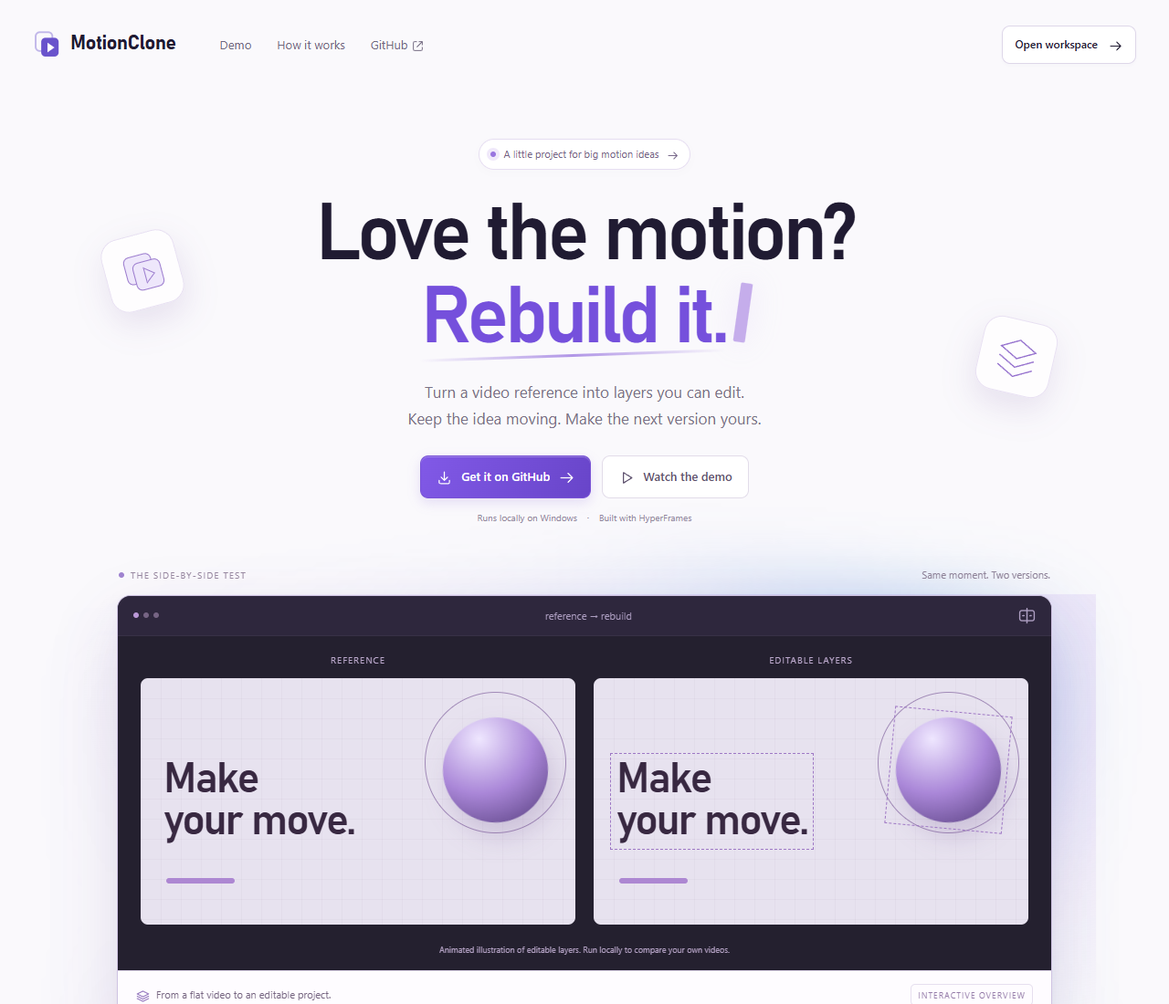
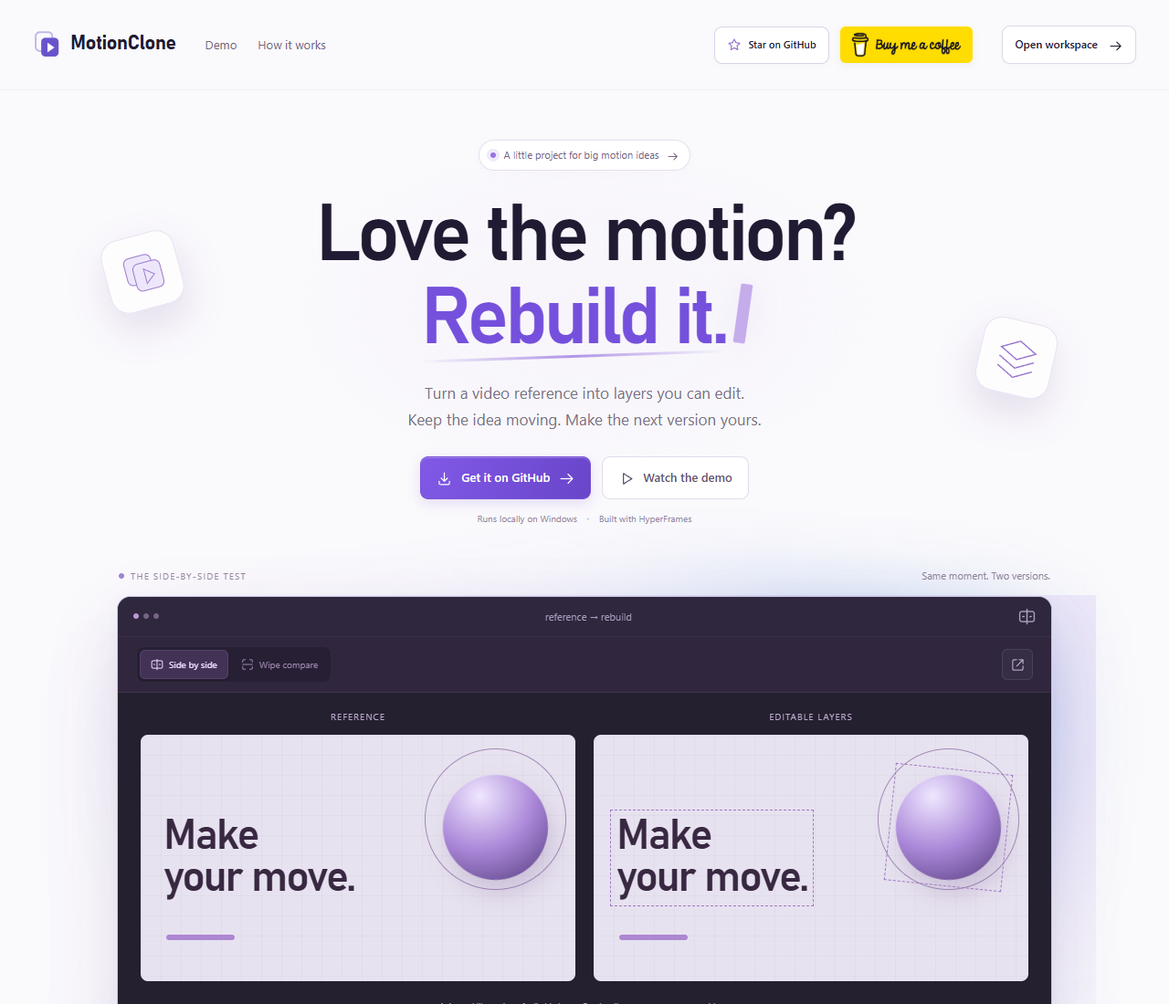
Add interactive showcase tools and prominent support links

diff --git a/web/showcase.css b/web/showcase.css
@@ -6,3 +6,100 @@
 @media(max-width:560px){.site-header{padding:16px 18px;flex-wrap:wrap;gap:10px 18px}.brand{font-size:20px}.brand img{width:29px;height:29px}.site-header nav{order:3;width:100%;justify-content:center;gap:28px}.site-header nav a{min-height:30px}.site-header nav a:last-child{display:flex}.workspace-link{margin-left:auto}.hero{padding:28px 16px 32px}.hero h1{font-size:54px;letter-spacing:-2.8px;margin:24px 0 19px}.hero-copy{font-size:13px}.project-pill{font-size:9px;gap:7px;padding:6px 9px}.project-pill .icon{width:12px;height:12px}.cursor-mark{height:39px;width:8px;margin-left:7px}.hero-actions{gap:8px;margin-top:22px}.button{font-size:11px;gap:7px;padding:11px 12px;min-height:44px}.hero-actions .main-button>.icon:last-child{display:none}.button .icon{width:15px;height:15px}.hero-note{font-size:9px}.demo-section{padding:0 16px}.demo-caption{font-size:8px;letter-spacing:.8px;gap:12px}.demo-caption>span:last-child{font-size:9px}.demo-window{border-radius:11px}.window-bar{padding:10px 13px;font-size:10px}.live-comparison{padding:8px 6px 0}.compare-pane{padding:0 4px}.compare-pane video{height:230px}.compare-pane figcaption{font-size:10px}.compare-controls{gap:6px;padding:10px 4px 2px}.compare-toggle{font-size:0;padding:7px}.compare-toggle .icon{width:13px;height:13px}.compare-time{font-size:9px}.compare-sound{padding:7px}.compare-state{font-size:8px;padding-bottom:9px}.demo-bottom{padding:12px;font-size:9px}.demo-tag{display:none}.demo-footnote{font-size:9px;padding:0 6px}.process-section{margin-top:65px;padding:0 23px}.section-intro h2{font-size:32px;letter-spacing:-1.2px}.section-intro>p:last-child{font-size:13px}.process-grid{grid-template-columns:1fr;gap:28px;margin-top:30px}.process-grid article{position:relative;padding-left:67px;min-height:125px;padding-top:20px}.step-art{position:absolute;left:0;top:20px;display:block}.step-number{display:block;text-align:center;margin-top:8px;font-size:10px}.process-grid h3{font-size:20px}.process-grid p{max-width:none;font-size:12px}.step-detail{margin-top:11px}.kicker{font-size:9px}.get-section{margin:55px 16px 0;padding:26px 22px}.get-section h2{font-size:29px;letter-spacing:-1px}.install-card pre{font-size:10px}.install-bottom{padding:10px;gap:6px;font-size:8px}.faq-section{margin-top:35px;padding:0 23px}.faq-section summary{font-size:12px}.faq-section details p{font-size:12px}.site-footer{padding:25px 20px;margin-top:45px;gap:24px;justify-content:center}.site-footer>.brand{font-size:18px}.site-footer>div{gap:20px}.sample-art{height:220px;padding:12px}.sample-art strong{font-size:31px}.sample-orb{width:74px;height:74px;right:8px;top:26px}.sample-ring{width:102px;height:102px;right:-5px;top:12px}.sample-line{left:15px;bottom:38px;width:55px}.sample-label{font-size:8px}.illustrative-demo{padding:12px 12px 0;gap:10px}.sample-note{font-size:8px}.sample-rebuild .sample-art strong{outline-offset:3px}}
 @media(max-width:350px){.brand{font-size:18px}.workspace-link{font-size:10px;padding:8px}.hero h1{font-size:47px}.hero-copy{font-size:12px}.project-pill{font-size:8px}.cursor-mark{height:33px}.compare-pane video{height:205px}.hero-note{font-size:8px}.sample-art strong{font-size:27px}.install-bottom>span{max-width:160px}}
 @media(prefers-reduced-motion:reduce){html{scroll-behavior:auto}*{animation:none!important;transition:none!important}.main-button:hover{transform:none}}
+
+/* Showcase details: prominent support, a hands-on demo, and an editable scene. */
+[hidden]{display:none!important}
+.sr-only{position:absolute;width:1px;height:1px;padding:0;margin:-1px;overflow:hidden;clip:rect(0,0,0,0);white-space:nowrap}
+.site-header{position:relative;max-width:1380px;gap:32px;border-bottom:1px solid #eae4f080}
+.site-header nav{gap:23px}
+.header-support{display:flex;align-items:center;gap:12px;margin-left:auto}
+.header-star{display:flex;align-items:center;justify-content:center;gap:7px;min-height:41px;padding:9px 13px;border:1px solid #dcd2e9;background:#fff;border-radius:9px;font-size:11px;font-weight:600;box-shadow:0 3px 6px #39224e04;white-space:nowrap}
+.header-star .icon{width:16px;height:16px;color:#9974c8}
+.header-star:hover{background:#f5eefc;border-color:#bfa6dd}
+.header-coffee{display:flex;align-items:center;min-height:44px}
+.header-coffee img{width:145px;height:auto;display:block;filter:drop-shadow(0 3px 4px #604b0610)}
+.workspace-link{margin-left:0;white-space:nowrap}
+.hero{--pointer-x:0px;--pointer-y:0px}
+.hero::before{content:'';position:absolute;inset:35px 20% 15%;pointer-events:none;z-index:-1;background:radial-gradient(ellipse,#e8dbf92b,transparent 65%)}
+.orbit-mark{translate:var(--pointer-x) var(--pointer-y);transition:translate .3s ease-out;box-shadow:0 18px 40px #5d3a9024,inset 0 1px #fff}
+.orbit-two{translate:calc(var(--pointer-x) * -.7) calc(var(--pointer-y) * -.7)}
+.demo-tools{display:flex;align-items:center;gap:12px;min-height:58px;padding:10px 20px;background:#30273e;border-bottom:1px solid #ffffff0d;color:#cab7dd}
+.view-switch{display:flex;gap:3px;padding:3px;border-radius:8px;background:#1d182980;border:1px solid #ffffff0b}
+.view-switch button{display:flex;align-items:center;justify-content:center;gap:6px;border-radius:6px;min-height:32px;padding:6px 11px;background:none;color:#9d89b0;font-size:10px;white-space:nowrap}
+.view-switch button .icon{width:14px;height:14px}
+.view-switch button[aria-pressed=true]{color:#efddff;background:#70538c60;border:1px solid #ad85d12b;box-shadow:0 2px 4px #00000013}
+.wipe-control{display:flex;align-items:center;gap:7px;font-size:9px;margin-left:5px}
+.wipe-control input{accent-color:#c2a0eb;width:100px;min-height:30px}
+.speed-control{margin-left:auto}
+.speed-control select{font:10px 'Segoe UI',sans-serif;border:1px solid #ffffff18;background:#3c2f4c;color:#dfcdec;min-height:34px;border-radius:6px;padding:5px 8px;cursor:pointer}
+.demo-expand{display:grid;place-items:center;min-width:34px;min-height:34px;border:1px solid #ffffff18;background:#ffffff08;color:#cbb8dc;border-radius:6px;margin-left:auto}
+.speed-control:not([hidden])+.demo-expand{margin-left:0}
+.demo-expand .icon{width:15px;height:15px}
+.demo-expand:hover{background:#ffffff15}
+.demo-window{--wipe:50%;--preview-height:300px}
+.wipe-mode .live-comparison{position:relative;padding-top:calc(var(--preview-height) + 50px)}
+.wipe-mode .compare-pane{position:absolute;left:22px;right:22px;top:14px;padding:0}
+.wipe-mode .compare-pane video{height:var(--preview-height)}
+.wipe-mode .compare-pane.rebuilt{border:0;clip-path:inset(0 0 0 var(--wipe));z-index:1}
+.wipe-mode .compare-pane figcaption{justify-content:flex-start;padding-left:12px}
+.wipe-mode .compare-pane.rebuilt figcaption{justify-content:flex-end;padding-left:0;padding-right:12px}
+.wipe-mode .live-comparison::after,.wipe-mode .illustrative-demo::after{content:'';position:absolute;top:46px;bottom:86px;left:calc(22px + (100% - 44px) * var(--wipe-number,.5));width:2px;background:#e9d7ff;box-shadow:0 0 12px #d8afff77;z-index:2;pointer-events:none}
+.wipe-mode .compare-controls,.wipe-mode .compare-state{position:relative;z-index:3}
+.demo-window:fullscreen{width:100vw;height:100vh;border-radius:0;display:flex;flex-direction:column;justify-content:center;background:#20182c;overflow:auto;--preview-height:calc(100vh - 260px)}
+.demo-window:fullscreen .compare-pane video{height:var(--preview-height)}
+.demo-window:fullscreen .demo-player{width:100%;max-width:1500px;margin:0 auto}
+.demo-window:fullscreen .demo-tools,.demo-window:fullscreen .demo-bottom{flex-shrink:0}
+.demo-window:fullscreen .window-bar{display:none}
+.wipe-mode .illustrative-demo{position:relative;padding-top:305px}
+.wipe-mode .sample-pane{position:absolute;left:25px;right:25px;top:18px}
+.wipe-mode .sample-rebuild{clip-path:inset(0 0 0 var(--wipe));z-index:1}
+.wipe-mode .sample-note{position:relative;z-index:2}
+.wipe-mode .illustrative-demo::after{bottom:38px}
+.layer-lab{max-width:1110px;margin:110px auto 0;padding:0 30px;display:grid;grid-template-columns:.95fr 1.2fr;gap:70px;align-items:center}
+.layer-lab h2{font-size:46px;font-weight:600;letter-spacing:-1.7px;line-height:1.1}
+.layer-lab-copy>p:not(.kicker){color:var(--muted);font-size:13px;line-height:1.8;max-width:330px;margin-top:18px}
+.layer-toggles{display:flex;flex-direction:column;gap:7px;margin-top:24px;max-width:320px}
+.layer-toggles button{display:flex;align-items:center;gap:10px;min-height:42px;padding:8px 12px;border:1px solid #e5dbee;border-radius:8px;background:#fff;color:#8d7a9c;font-size:12px;text-align:left;transition:background .2s,border-color .2s}
+.layer-toggles button[aria-pressed=true]{background:#f5f0fb;border-color:#d7c4ea;color:#654784}
+.layer-toggles button .icon{width:16px;height:16px}
+.layer-check{margin-left:auto;display:grid;place-items:center;width:17px;height:17px;border-radius:5px;border:1px solid #d4c3e2;font-size:10px;color:transparent;background:white}
+[aria-pressed=true]>.layer-check{background:#9572c1;border-color:#9572c1;color:#fff}
+.explode-button{display:flex;align-items:center;gap:8px;margin-top:16px;min-height:42px;background:none;font-size:11px;color:#8b60b8;padding:8px 0}
+.explode-button .icon{width:15px;height:15px}
+.layer-lab-copy>p.lab-disclosure{font-size:10px;margin-top:5px;color:#aa98b5}
+.layer-stage{min-width:0;position:relative;border:1px solid #d5c9e3;border-radius:18px;background:radial-gradient(ellipse at 70% 30%,#e8dcf4,#f6f2fa 80%);box-shadow:0 23px 50px #4b2a6f12,inset 0 1px #fff;overflow:hidden}
+.stage-topline,.stage-bottomline{display:flex;align-items:center;justify-content:space-between;gap:12px;padding:17px 20px;color:#9b87aa;font-size:9px}
+.stage-topline>span:first-child{display:flex;align-items:center;gap:6px;font-size:8px;letter-spacing:1px}
+.stage-bottomline{border-top:1px solid #ded3e94d;font-size:9px;padding:14px 20px;background:#ffffff35}
+.stage-bottomline>span:first-child{display:flex;align-items:center;gap:5px}.stage-bottomline .icon{width:13px;height:13px}
+.layer-scene{position:relative;height:340px;perspective:1000px;transform-style:preserve-3d;margin:0 22px}
+.lab-plane{position:absolute;inset:28px 10px 42px;border-radius:8px;transform-origin:center;transition:transform .6s cubic-bezier(.2,.8,.2,1),opacity .25s,box-shadow .6s;transform-style:preserve-3d}
+.lab-grid{background-color:#eee7f4;background-image:linear-gradient(#a692bc18 1px,transparent 1px),linear-gradient(90deg,#a692bc18 1px,transparent 1px);background-size:22px 22px;border:1px solid #d9cbe5;box-shadow:0 12px 25px #6a4c8420}
+.lab-shape{z-index:1}.lab-type{z-index:2;padding:64px 25px 20px}
+.lab-type strong{font:600 55px/.92 Bahnschrift,'Segoe UI',sans-serif;letter-spacing:-2.7px;position:relative;color:#34223e;display:inline-block}
+.lab-type strong>span{color:#9670c0}
+.type-underline{position:absolute;left:26px;bottom:34px;height:5px;width:80px;border-radius:3px;background:#b796d6}
+.lab-sphere{position:absolute;right:36px;top:30px;width:120px;height:120px;border-radius:50%;background:radial-gradient(circle at 30% 25%,#fbf5ff,#b79ada 48%,#745193 83%,#463157);box-shadow:8px 18px 24px #74588b33}
+.lab-orbit{position:absolute;right:17px;top:11px;width:158px;height:158px;border:1px solid #b29bc7;border-radius:50%}
+.plane-label{position:absolute;bottom:8px;right:10px;font-size:9px;letter-spacing:.5px;color:#976cb4;opacity:0;transition:opacity .25s}
+.exploded .lab-grid{transform:translate(-18px,33px) rotateX(42deg) rotateZ(-13deg) scale(.85);box-shadow:0 20px 30px #6a4c8420}
+.exploded .lab-shape{transform:translate(0,-6px) rotateX(42deg) rotateZ(-13deg) scale(.85);border:1px dashed #bca5cf;background:#f5ecff25}
+.exploded .lab-type{transform:translate(18px,-45px) rotateX(42deg) rotateZ(-13deg) scale(.85);border:1px dashed #ac89c9;background:#ffffff30}
+.exploded .plane-label{opacity:1}
+.lab-plane.plane-hidden{opacity:0;pointer-events:none}
+.process-section{margin-top:100px}
+@media(min-width:1500px){.demo-window{--preview-height:340px}}
+@media(max-width:1150px){.site-header{gap:19px;padding:22px 28px}.site-header nav{gap:16px}.header-support{gap:9px}.header-star{font-size:10px;padding:8px 10px}.header-coffee img{width:125px}.workspace-link{font-size:11px;gap:7px}.layer-lab{gap:42px}.layer-lab h2{font-size:40px}}
+@media(max-width:960px){.site-header{flex-wrap:wrap;gap:12px 22px}.site-header>.brand{margin-right:auto}.header-support{margin-left:0}.site-header nav{order:4}.workspace-link{order:5;margin-left:auto}.layer-lab{gap:28px}.layer-lab h2{font-size:36px}.lab-type strong{font-size:46px}.lab-sphere{width:105px;height:105px;right:20px}.lab-orbit{width:140px;height:140px;right:3px}}
+@media(max-width:760px){.site-header{padding:17px 22px}.header-coffee img{width:130px}.header-star{font-size:11px}.site-header nav a:last-child{display:flex}.layer-lab{grid-template-columns:1fr;max-width:580px;gap:24px;margin-top:70px;padding:0 24px}.layer-lab-copy>p:not(.kicker){max-width:440px}.layer-toggles{max-width:none;flex-direction:row;gap:7px}.layer-toggles button{flex:1;font-size:10px;gap:5px;padding:8px}.layer-toggles .layer-check{width:14px;height:14px;font-size:9px}.layer-lab h2{font-size:36px}.layer-scene{height:350px}.lab-type strong{font-size:55px}.lab-sphere{right:35px;width:125px;height:125px}.lab-orbit{right:18px;width:160px;height:160px}.demo-window{--preview-height:260px}.wipe-mode .compare-pane{left:12px;right:12px}.wipe-mode .live-comparison::after{left:calc(12px + (100% - 24px) * var(--wipe-number,.5))}.demo-tools{gap:8px;padding:9px 14px;flex-wrap:wrap}.wipe-control{margin-left:auto}.wipe-control input{width:85px}.process-section{margin-top:75px}}
+@media(max-width:560px){.site-header{padding:14px 18px;gap:11px 14px}.site-header>.brand{width:100%;justify-content:center;margin:0 0 3px}.header-support{width:100%;justify-content:center;gap:12px}.header-coffee img{width:143px}.header-star{font-size:11px;padding:9px 12px}.site-header nav{width:auto;justify-content:flex-start;gap:19px;font-size:11px}.site-header nav a{min-height:36px}.workspace-link{font-size:10px;padding:8px 11px}.hero{padding-top:24px}.demo-tools{padding:9px 10px;gap:8px}.view-switch button{font-size:9px;padding:6px 8px;gap:5px}.view-switch button .icon{width:12px;height:12px}.demo-expand{min-width:30px;min-height:32px}.speed-control select{font-size:9px;padding:4px;max-width:65px}.wipe-control{order:4;width:100%;justify-content:center;margin:0;gap:12px}.wipe-control input{width:140px}.demo-window{--preview-height:230px}.wipe-mode .compare-pane{left:6px;right:6px}.wipe-mode .live-comparison::after{left:calc(6px + (100% - 12px) * var(--wipe-number,.5))}.layer-lab{margin-top:58px;padding:0 20px}.layer-lab .kicker{font-size:8px}.layer-lab h2{font-size:33px}.layer-toggles button{font-size:9px}.layer-toggles button>.icon{width:13px;height:13px}.layer-toggles{gap:5px}.layer-stage{border-radius:14px}.layer-scene{height:290px;margin:0 12px}.lab-plane{inset:25px 8px 30px}.lab-type{padding:64px 15px 20px}.lab-type strong{font-size:42px;letter-spacing:-1.9px}.lab-sphere{width:97px;height:97px;right:20px}.lab-orbit{width:127px;height:127px;right:5px;top:15px}.type-underline{left:17px;bottom:26px;width:60px}.stage-topline,.stage-bottomline{padding:13px 14px;font-size:8px}.stage-topline>span:first-child{font-size:7px}.stage-topline{gap:7px}.stage-topline .live-dot{width:5px;height:5px}.wipe-mode .illustrative-demo{padding-top:257px}.wipe-mode .sample-pane{left:12px;right:12px;top:12px}.wipe-mode .illustrative-demo::after{top:35px;bottom:35px;left:calc(12px + (100% - 24px) * var(--wipe-number,.5))}}
+@media(max-width:350px){.header-coffee img{width:133px}.header-star{font-size:10px;padding:8px 10px}.header-support{gap:10px}.demo-window{--preview-height:205px}.view-switch button{padding:6px;font-size:8px}.demo-tools{gap:5px}.layer-toggles button{padding:7px 5px;gap:4px}.layer-toggles button>.icon{display:none}.lab-type strong{font-size:38px}.stage-topline>span:first-child{letter-spacing:.5px}}
+@media(prefers-reduced-motion:reduce){.orbit-mark{translate:0 0!important}.lab-plane{transition:none}.hero{scroll-behavior:auto}}
+.lab-plane{transform-style:flat}
+.lab-shape{transform:translateZ(1px)}
+.lab-type{transform:translateZ(2px)}
+.wipe-mode .live-comparison{--wipe-frame-width:min(calc(100% - 44px),calc(var(--preview-height) * var(--media-ratio,.5625)))}
+.wipe-mode .live-comparison .compare-pane{width:var(--wipe-frame-width);left:50%;right:auto;transform:translateX(-50%)}
+.wipe-mode .live-comparison::after{left:calc(50% + var(--wipe-frame-width) * (var(--wipe-number,.5) - .5))}
+.wipe-mode .live-comparison figcaption{font-size:9px;padding-left:0;padding-right:0}
+.wipe-mode .live-comparison figcaption .icon{display:none}

diff --git a/web/showcase.html b/web/showcase.html
@@ -5,13 +5,14 @@
 <title>MotionClone — From reference to editable motion</title>
 <meta name="description" content="Rebuild reference videos as editable motion projects. Explore the demo, compare the result, and get MotionClone on GitHub.">
 <link rel="icon" href="./assets/motionclone-icon-color.svg">
-<link rel="stylesheet" href="./showcase.css?v=8494d62b0af3">
-<script src="./showcase.js?v=a76d35f4e7a6" defer></script><script src="./previews.js?v=c1fd82d2ef8b" defer></script>
+<link rel="stylesheet" href="./showcase.css?v=d5fc152adb9e">
+<script src="./showcase.js?v=5a6fe76632b5" defer></script><script src="./previews.js?v=c1fd82d2ef8b" defer></script>
 </head>
 <body>
 <header class="site-header">
   <a class="brand" href="#" aria-label="MotionClone home"><img src="./assets/motionclone-icon-color.svg" width="32" height="32" alt="">MotionClone</a>
-  <nav aria-label="Main navigation"><a href="#demo">Demo</a><a href="#how-it-works">How it works</a><a href="https://github.com/blixvip/MotionClone" target="_blank" rel="noopener">GitHub <span data-icon="external"></span></a></nav>
+  <nav aria-label="Main navigation"><a href="#demo">Demo</a><a href="#how-it-works">How it works</a></nav>
+  <div class="header-support"><a class="header-star" href="https://github.com/blixvip/MotionClone" target="_blank" rel="noopener" data-icon="star">Star on GitHub</a><a class="header-coffee" href="https://buymeacoffee.com/blix" target="_blank" rel="noopener"><img src="./assets/buymeacoffee-yellow.png" width="145" height="41" alt="Buy me a coffee"></a></div>
   <a class="workspace-link" href="/?workspace=1" id="open-workspace">Open workspace <span data-icon="arrow-right"></span></a>
 </header>
 <main>
@@ -29,6 +30,7 @@
     <div class="demo-caption"><span><span class="live-dot"></span>THE SIDE-BY-SIDE TEST</span><span>Same moment. Two versions.</span></div>
     <div id="demo" class="demo-window">
       <div class="window-bar"><span class="window-dots" aria-hidden="true"><i></i><i></i><i></i></span><span id="demo-title">reference → rebuild</span><span data-icon="compare"></span></div>
+      <div class="demo-tools"><div class="view-switch" aria-label="Comparison view"><button id="view-pair" type="button" aria-pressed="true" data-icon="compare">Side by side</button><button id="view-wipe" type="button" aria-pressed="false" data-icon="scan">Wipe compare</button></div><label class="wipe-control" id="wipe-control" hidden>Reveal<input id="wipe-position" type="range" min="5" max="95" value="50" aria-label="Comparison divider position"></label><label class="speed-control" id="speed-control" hidden><span class="sr-only">Playback speed</span><select id="demo-speed" aria-label="Playback speed"><option value="0.5">0.5×</option><option value="1" selected>1× speed</option><option value="1.5">1.5×</option><option value="2">2×</option></select></label><button class="demo-expand" id="demo-expand" type="button" data-icon="external" aria-label="View demo fullscreen" title="Fullscreen"></button></div>
       <div id="demo-player" class="demo-player">
         <div class="illustrative-demo" aria-label="Illustration of reference and editable motion layers">
           <div class="sample-pane"><span class="sample-label">REFERENCE</span><div class="sample-art"><span class="sample-ring"></span><span class="sample-orb"></span><strong>Make<br>your move.</strong><span class="sample-line"></span></div></div>
@@ -40,6 +42,8 @@
     </div>
     <p class="demo-footnote" id="demo-footnote">Reconstruction is approximate. Compare the result and fine-tune the details.</p>
   </section>
+
+  <section class="layer-lab" id="layers" aria-labelledby="layer-title"><div class="layer-lab-copy"><p class="kicker">A VIDEO IS THE START. LAYERS ARE THE POSSIBILITIES.</p><h2 id="layer-title">Go beyond<br>the final frame.</h2><p>Text. Shapes. Backgrounds. See why an editable project gives you room to make it your own.</p><div class="layer-toggles" aria-label="Illustration layers"><button type="button" data-layer="type" aria-pressed="true" data-icon="tag">Typography<span class="layer-check" aria-hidden="true">✓</span></button><button type="button" data-layer="shape" aria-pressed="true" data-icon="layers">Shapes<span class="layer-check" aria-hidden="true">✓</span></button><button type="button" data-layer="grid" aria-pressed="true" data-icon="scan">Background<span class="layer-check" aria-hidden="true">✓</span></button></div><button type="button" id="explode-layers" class="explode-button" aria-pressed="false" data-icon="layers">Separate the layers<span data-icon="arrow-right"></span></button><p class="lab-disclosure">Interactive illustration. Your exported project opens in HyperFrames.</p></div><div class="layer-stage" aria-label="Editable scene illustration"><div class="stage-topline"><span><span class="live-dot"></span>SCENE PLAYGROUND</span><span id="layer-count" aria-live="polite">3 layers visible</span></div><div class="layer-scene"><div class="lab-plane lab-grid" data-plane="grid"><span class="plane-label">Background</span></div><div class="lab-plane lab-shape" data-plane="shape"><span class="lab-sphere"></span><span class="lab-orbit"></span><span class="plane-label">Shapes</span></div><div class="lab-plane lab-type" data-plane="type"><strong>Make<br>your move<span>.</span></strong><span class="type-underline"></span><span class="plane-label">Typography</span></div></div><div class="stage-bottomline"><span data-icon="info">Try toggling a layer</span><span>HTML · CSS · SVG</span></div></div></section>
 
   <section class="process-section" id="how-it-works" aria-labelledby="process-title">
     <div class="section-intro"><p class="kicker">A REFERENCE IS JUST THE START</p><h2 id="process-title">Less starting over.<br>More making it yours.</h2><p>A simple path from “I like that” to a motion project you can open, edit, and export.</p></div>

diff --git a/web/showcase.js b/web/showcase.js
@@ -7,6 +7,7 @@ function setControl(element,text,name){element.replaceChildren(icon(name),docume
 function duration(seconds){const total=Math.max(0,Math.round(Number(seconds)||0));return `${Math.floor(total/60)}:${String(total%60).padStart(2,'0')}`;}
 document.addEventListener('DOMContentLoaded',async()=>{
   document.querySelectorAll('[data-icon]').forEach(element=>element.prepend(icon(element.dataset.icon)));
+  setupShowcaseInteractions();
   const local=['127.0.0.1','localhost'].includes(location.hostname);
   if(!local){const link=document.getElementById('open-workspace');link.href='#get-started';link.firstChild.textContent='Get started ';}
   if(local){
@@ -16,7 +17,9 @@ document.addEventListener('DOMContentLoaded',async()=>{
       const jobs=await response.json();
       const job=jobs.find(job=>!job.archived&&job.status==='complete'&&job.brief.mode==='hyperframes'&&job.files['source.mp4']&&job.files['output.mp4']);
       if(job){
+        if(job.media?.width&&job.media?.height)document.getElementById('demo').style.setProperty('--media-ratio',job.media.width/job.media.height);
         document.getElementById('demo-player').replaceChildren(comparisonPreview(job));
+        document.getElementById('speed-control').hidden=false;
         document.getElementById('demo-tag').textContent='ACTUAL REBUILD';
         document.getElementById('demo-description').replaceChildren(icon('layers'),document.createTextNode(job.name));
         document.getElementById('demo-footnote').textContent='Real reference. Independent rebuild. Visual differences are shown as they are.';
@@ -33,3 +36,43 @@ document.addEventListener('DOMContentLoaded',async()=>{
     if(player){player.manual=true;player.update();}
   });
 });
+
+function setupShowcaseInteractions(){
+  const demo=document.getElementById('demo');
+  const pair=document.getElementById('view-pair'),wipe=document.getElementById('view-wipe');
+  function setView(wiping){
+    demo.classList.toggle('wipe-mode',wiping);
+    pair.setAttribute('aria-pressed',String(!wiping));wipe.setAttribute('aria-pressed',String(wiping));
+    document.getElementById('wipe-control').hidden=!wiping;
+  }
+  pair.addEventListener('click',()=>setView(false));wipe.addEventListener('click',()=>setView(true));
+  document.getElementById('wipe-position').addEventListener('input',event=>{demo.style.setProperty('--wipe',event.target.value+'%');demo.style.setProperty('--wipe-number',Number(event.target.value)/100);});
+  document.getElementById('demo-speed').addEventListener('change',event=>demo.querySelectorAll('video').forEach(video=>{video.playbackRate=Number(event.target.value);}));
+  const expand=document.getElementById('demo-expand');
+  if(!demo.requestFullscreen)expand.hidden=true;
+  expand.addEventListener('click',async()=>{
+    try{if(document.fullscreenElement)await document.exitFullscreen();else await demo.requestFullscreen();}
+    catch{document.getElementById('demo-footnote').textContent='Fullscreen is unavailable in this browser. The inline demo still works.';}
+  });
+  document.addEventListener('fullscreenchange',()=>expand.setAttribute('aria-label',document.fullscreenElement?'Exit fullscreen':'View demo fullscreen'));
+  const scene=document.querySelector('.layer-scene');
+  document.querySelectorAll('[data-layer]').forEach(button=>button.addEventListener('click',()=>{
+    const visible=button.getAttribute('aria-pressed')!=='true';button.setAttribute('aria-pressed',String(visible));
+    scene.querySelector('[data-plane="'+button.dataset.layer+'"]').classList.toggle('plane-hidden',!visible);
+    const count=document.querySelectorAll('[data-layer][aria-pressed="true"]').length;
+    document.getElementById('layer-count').textContent=count+' '+(count===1?'layer':'layers')+' visible';
+  }));
+  const explode=document.getElementById('explode-layers');
+  explode.addEventListener('click',()=>{
+    const separated=scene.classList.toggle('exploded');explode.setAttribute('aria-pressed',String(separated));
+    setControl(explode,separated?'Put the layers together':'Separate the layers','layers');
+  });
+  // Pointer response is confined to the decorative hero tiles, without layout shifts.
+  const hero=document.querySelector('.hero');let pending=0,lastEvent=null;
+  hero.addEventListener('pointermove',event=>{
+    if(matchMedia('(prefers-reduced-motion: reduce)').matches||event.pointerType!=='mouse')return;
+    lastEvent=event;if(pending)return;
+    pending=requestAnimationFrame(()=>{pending=0;const box=hero.getBoundingClientRect();hero.style.setProperty('--pointer-x',((lastEvent.clientX-box.left)/box.width-.5)*14+'px');hero.style.setProperty('--pointer-y',((lastEvent.clientY-box.top)/box.height-.5)*10+'px');});
+  });
+  hero.addEventListener('pointerleave',()=>{cancelAnimationFrame(pending);pending=0;hero.style.setProperty('--pointer-x','0px');hero.style.setProperty('--pointer-y','0px');});
+}

diff --git a/scripts/showcase_details_acceptance.py b/scripts/showcase_details_acceptance.py
@@ -1,0 +1,54 @@
+"""Exercise the showcase controls and support links without changing saved projects."""
+from pathlib import Path
+from playwright.sync_api import sync_playwright,expect
+OUT=Path('test-results/showcase-details');OUT.mkdir(parents=True,exist_ok=True)
+with sync_playwright() as p:
+    browser=p.chromium.launch(channel='chrome')
+    page=browser.new_page(viewport={'width':1440,'height':1000})
+    errors=[];page.on('pageerror',lambda e:errors.append(str(e)))
+    page.goto('http://127.0.0.1:4319/',wait_until='domcontentloaded')
+    expect(page.locator('#demo-player video')).to_have_count(2,timeout=12000)
+    expect(page.locator('.header-star')).to_have_attribute('href','https://github.com/blixvip/MotionClone')
+    expect(page.locator('.header-coffee')).to_have_attribute('href','https://buymeacoffee.com/blix')
+    page.locator('#view-wipe').click()
+    expect(page.locator('#view-wipe')).to_have_attribute('aria-pressed','true')
+    page.locator('#wipe-position').fill('72')
+    assert page.locator('#demo').evaluate('(e)=>e.style.getPropertyValue("--wipe")')=='72%'
+    assert '72%' in page.locator('.compare-pane.rebuilt').evaluate('(e)=>getComputedStyle(e).clipPath')
+    page.locator('#demo-speed').select_option('0.5')
+    assert page.locator('#demo video').evaluate_all('(vs)=>vs.every(v=>v.playbackRate===.5)')
+    page.screenshot(path=str(OUT/'wipe-1440.png'))
+    page.locator('#demo-expand').click()
+    page.wait_for_function('() => document.fullscreenElement?.id === "demo"')
+    page.locator('#demo-expand').click()
+    page.wait_for_function('() => !document.fullscreenElement')
+    page.locator('#view-pair').click()
+    page.locator('[data-layer="type"]').click()
+    expect(page.locator('#layer-count')).to_have_text('2 layers visible')
+    expect(page.locator('[data-plane="type"]')).to_have_class('lab-plane lab-type plane-hidden')
+    page.locator('[data-layer="type"]').click()
+    page.locator('#explode-layers').click()
+    expect(page.locator('#explode-layers')).to_have_attribute('aria-pressed','true')
+    page.wait_for_timeout(650)
+    page.locator('.layer-stage').screenshot(path=str(OUT/'layers.png'))
+    page.locator('#explode-layers').click()
+    for width in [320,390,768,1024,1440]:
+        page.set_viewport_size({'width':width,'height':1000})
+        page.evaluate('scrollTo(0,0)')
+        assert page.evaluate('document.documentElement.scrollWidth<=innerWidth'),width
+        for selector in ['.header-star','.header-coffee']:
+            expect(page.locator(selector)).to_be_visible()
+            box=page.locator(selector).bounding_box();assert 0<=box['y']<250,(width,selector,box)
+        page.screenshot(path=str(OUT/f'home-{width}.png'),full_page=True)
+    page.emulate_media(reduced_motion='reduce')
+    page.locator('#explode-layers').click()
+    assert page.locator('.lab-plane').first.evaluate('(e)=>getComputedStyle(e).transitionDuration')=='0s'
+    page.route('**/api/library',lambda r:r.abort())
+    page.goto('http://127.0.0.1:4319/',wait_until='domcontentloaded')
+    page.locator('#view-wipe').click()
+    expect(page.locator('.illustrative-demo')).to_be_visible()
+    page.locator('[data-layer="shape"]').click()
+    expect(page.locator('#layer-count')).to_have_text('2 layers visible')
+    assert not errors,errors
+    browser.close()
+print('PASS: support links, wipe, speed, fullscreen, layer controls, five widths, reduced motion and standalone controls')

diff --git a/README.md b/README.md
@@ -59,6 +59,8 @@ The repository excludes user projects, media, logs, environment files, dependenc
 
 The homepage is a GitHub project showcase with a live local comparison, a short walkthrough, setup instructions, and support links. The application remains at `/?workspace=1`; existing project links still work.
 
+The demo supports side-by-side or wipe comparison, playback speed, and fullscreen. A separate illustrative scene lets visitors toggle text, shapes, and the background or separate the layers. GitHub starring and the official Buy Me a Coffee button are visible in the header. Run `scripts/showcase_details_acceptance.py` to check these controls and mobile layouts.
+
 Build a portable static version with `python scripts/build_showcase.py`. Serve the generated `site/` folder on a static host. It contains only the landing page, original illustrative animation, and interface assets—no saved projects or reference media. Away from the local server, the page labels its animation as an illustration and links visitors to setup instructions. Test the local landing page with `scripts/showcase_acceptance.py`.
 
 ## Checks
